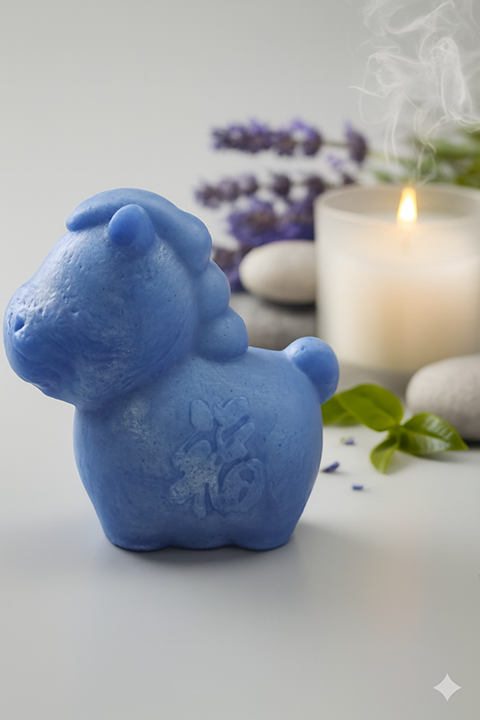
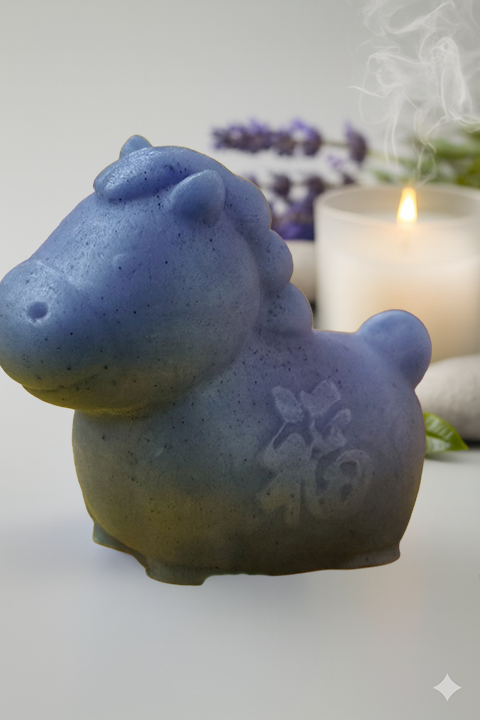
[update] Modify product image and desc

diff --git a/script.js b/script.js
@@ -40,7 +40,7 @@ const groups = [
   {
     id: 'soap',
     name: '佛光普皂',
-    desc: '手工製作香皂系列，易有色差。所有香皂皆供於佛前加持。',
+    desc: '香皂皆為手工製作，顏色可能略有差異。所有香皂皆已於佛前供氧加持。香皂僅適用於洗手，請勿用於臉部清潔。',
     categories: [
       { id: 3, name: "活力清新系", startId: 16, endId: 18, desc: '芳香: 葡萄柚、馬鞭草' },
       { id: 4, name: "療癒花香系", startId: 19, endId: 21, desc: '芳香: 薰衣草、茶樹' },
